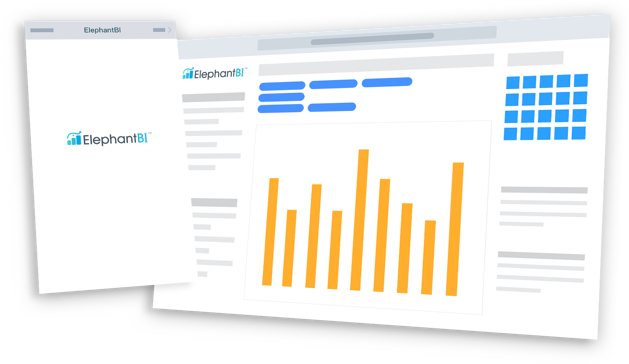
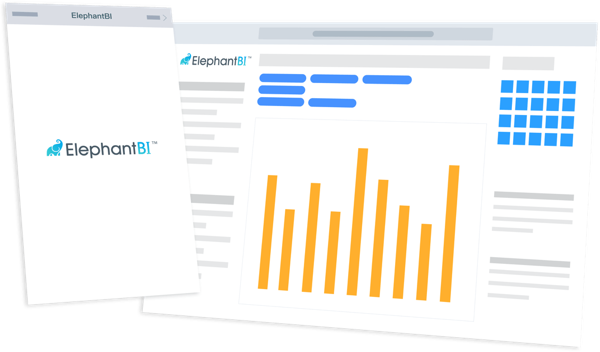
FIX

diff --git a/src/mobile/css/about.less b/src/mobile/css/about.less
@@ -108,7 +108,6 @@
     display: inline-block;
     width: 100%;
     padding: 20px 0;
-    font-weight: 500;
     border-bottom: 1px solid #e9ebfd;
     line-height: 28px;
     font-size: 28px;
@@ -199,14 +198,14 @@
     background-color: #6772e5;
   };
   span:nth-child(3) {
-    top: @span-height * -2;
+    top: @span-height * -2 - 30px;
     right: 0;
     width: 10%;
     
     background-color: #80baf9;
   };
   span:nth-child(4) {
-    top: @span-height * -1;
+    top: @span-height * -1 - 30px;
     right: 0;
     width: 30%;
     
